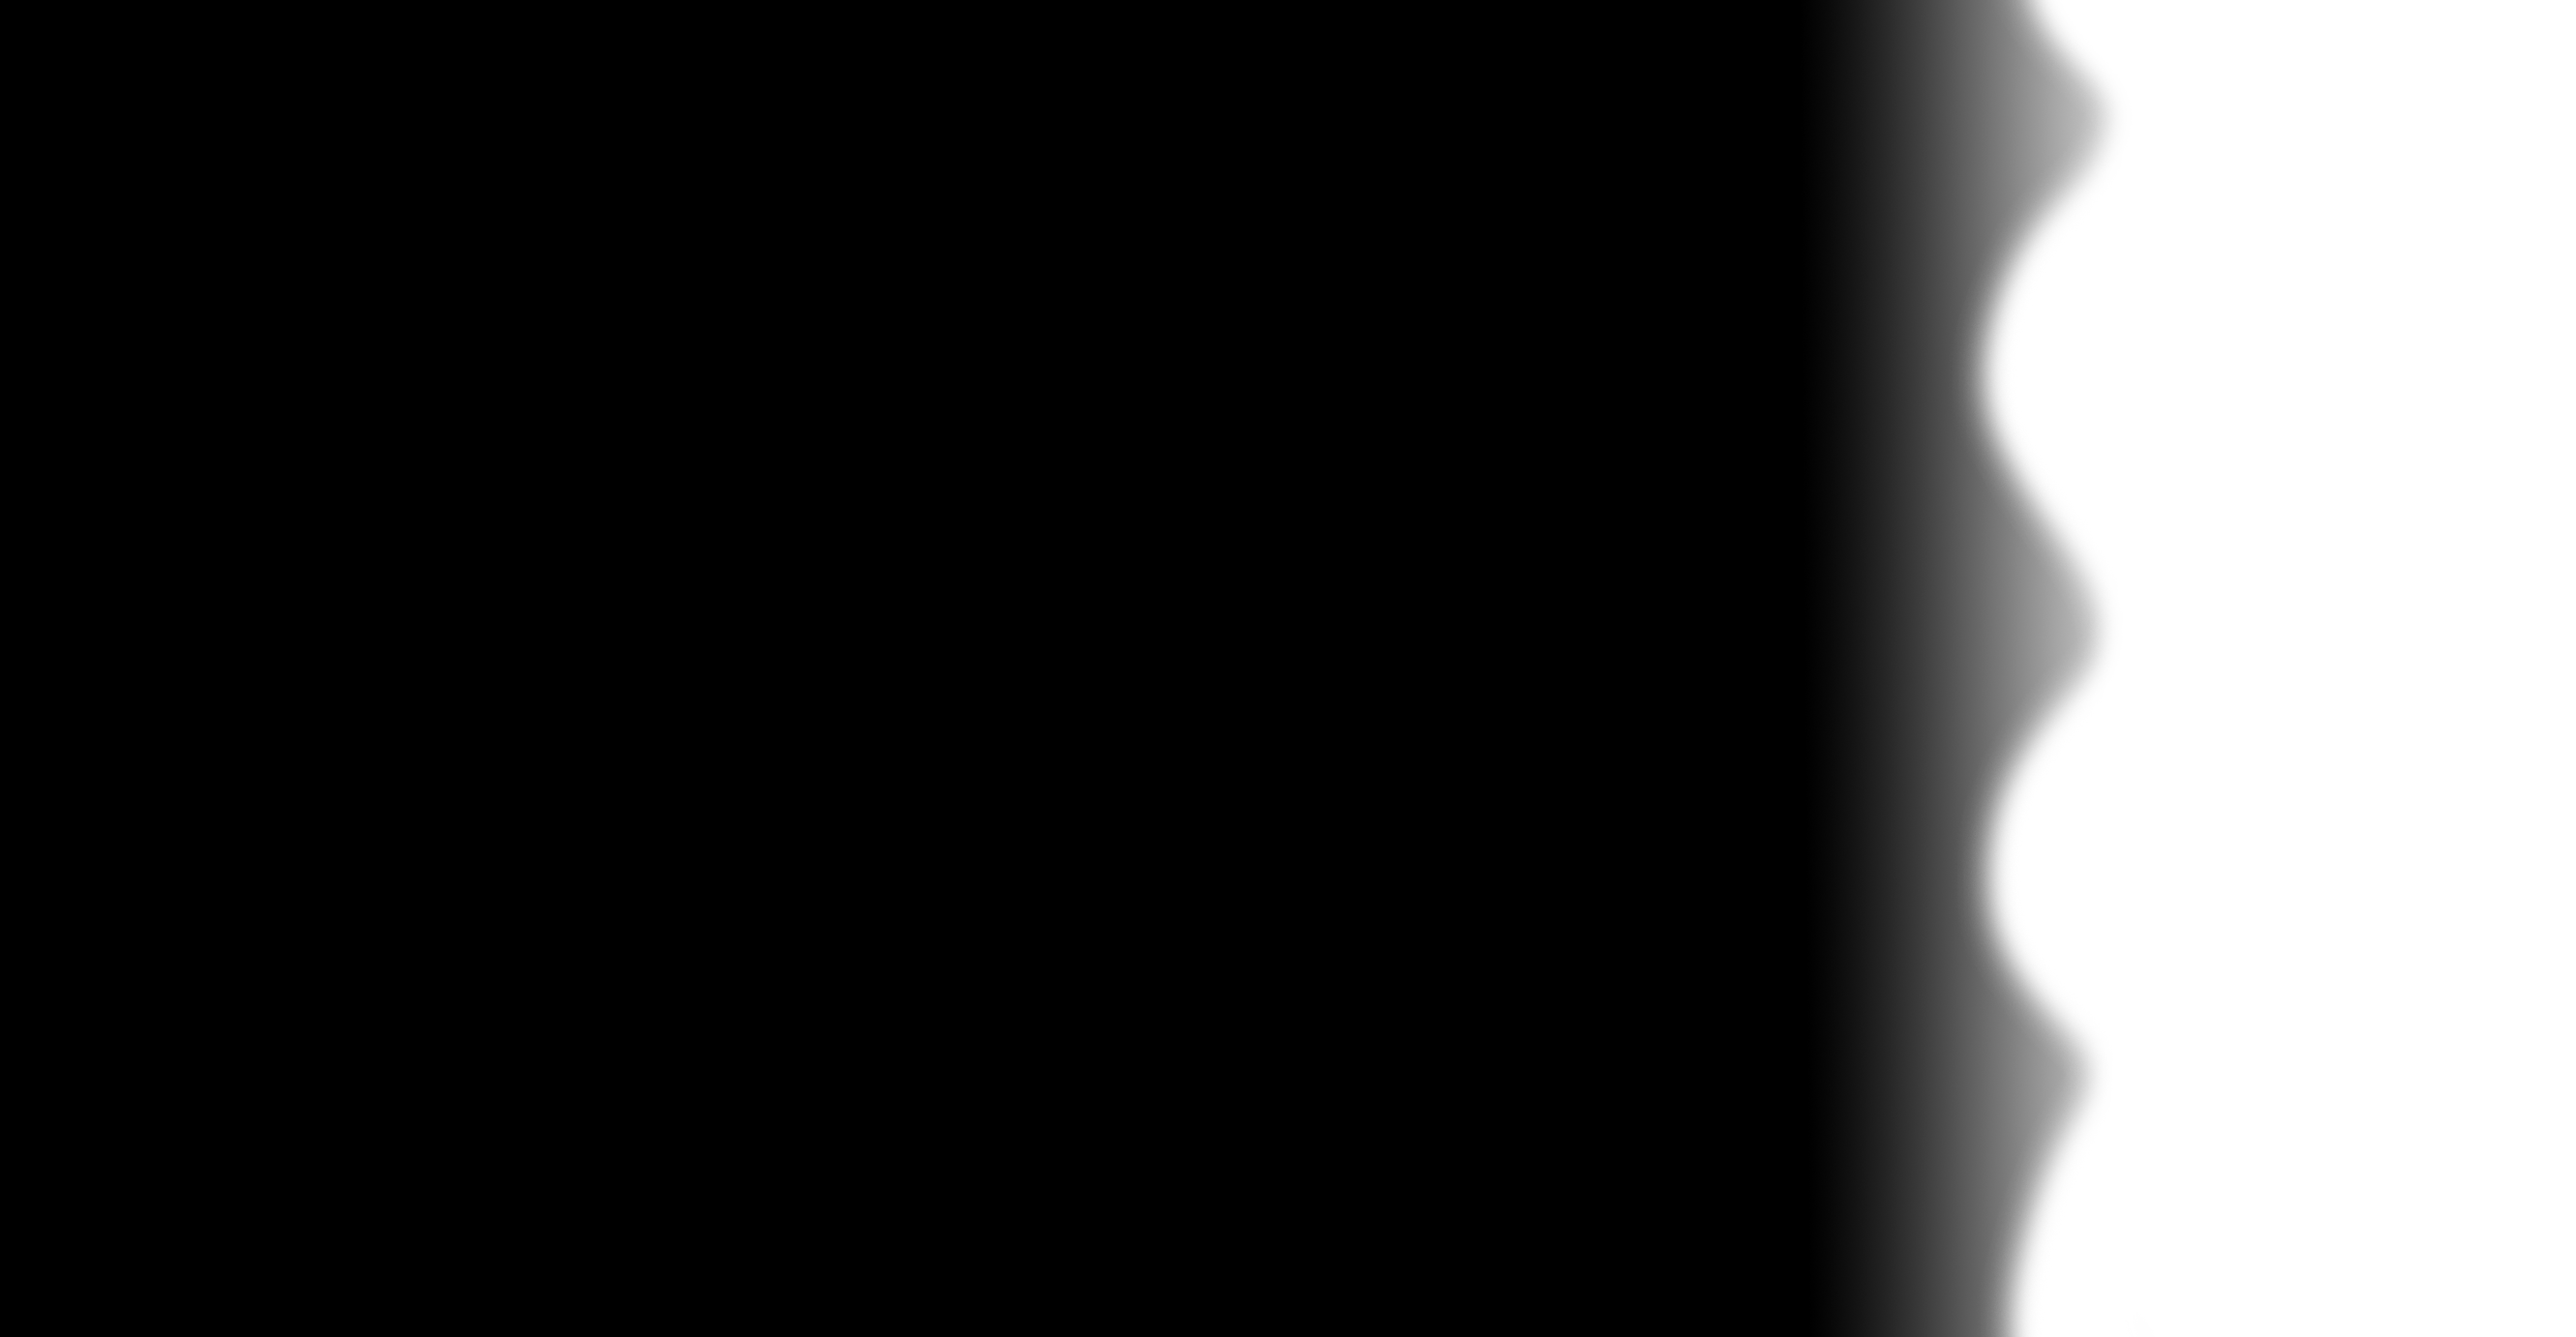
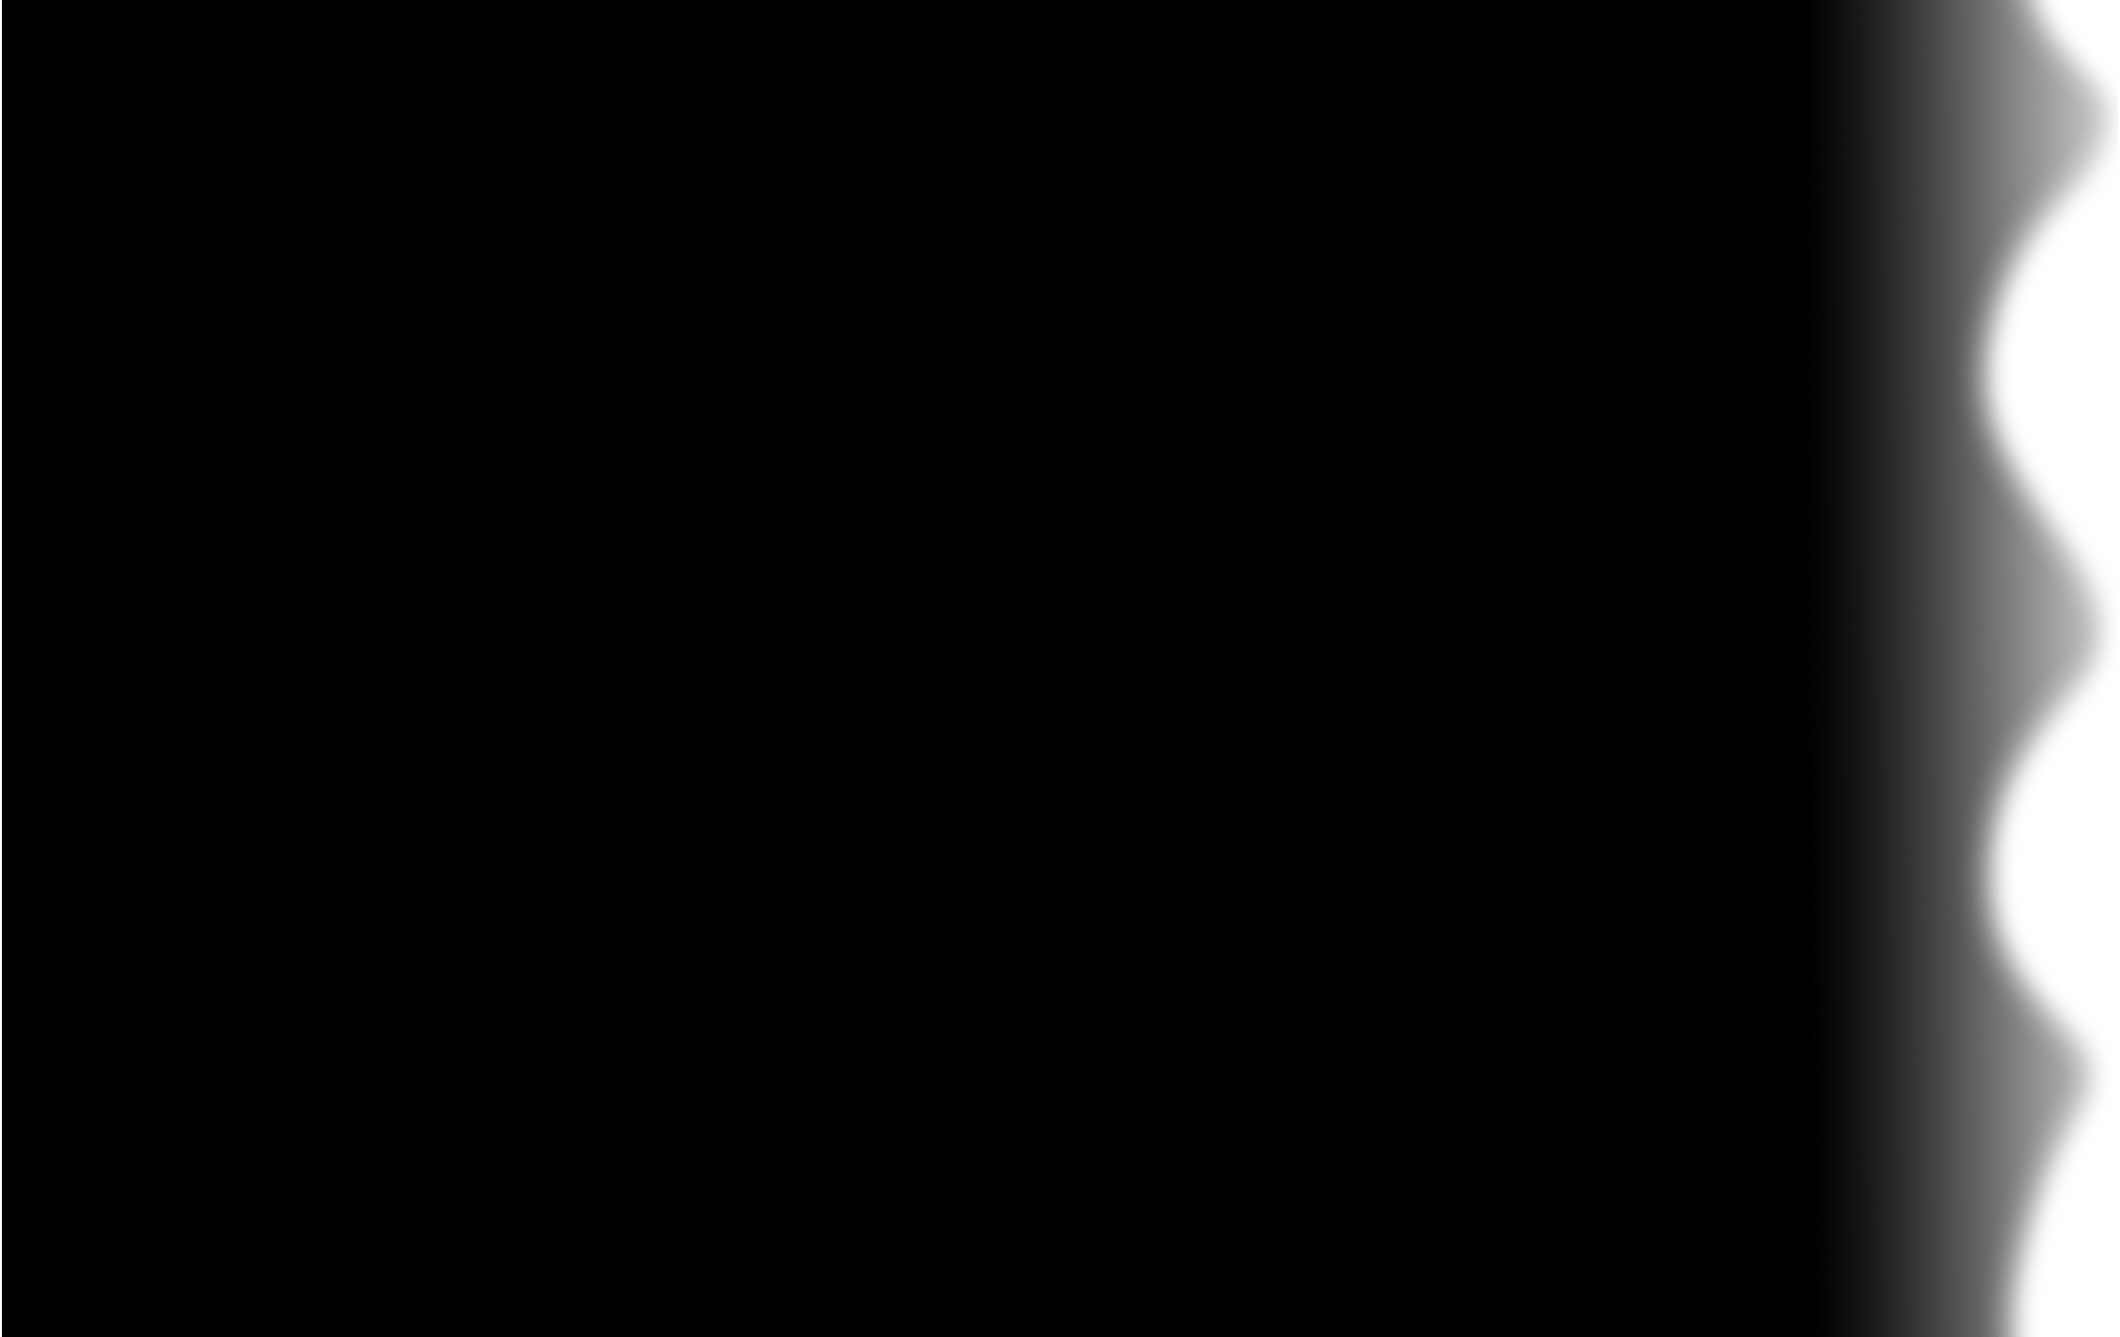
Edited darkness image files to fix hitbox, changed slide functionality to drop through platforms, increased difficulty at higher levels

Changed region(s): [[0.7142, 0.0, 0.9936, 1.0]]

diff --git a/main.py b/main.py
@@ -238,7 +238,8 @@ class Game:
             Key(self, WIDTH, HEIGHT / 2)
 
         # Check for platform collisions while falling
-        self.platform_collision()
+        if (self.player.sliding == False):
+            self.platform_collision()
 
         # If player reaches rightmost 1/2 of screen
         if self.player.rect.centerx >= WIDTH / 2:
@@ -303,8 +304,16 @@ class Game:
                 return
 
         # Need lvl_init platforms
-
-        while len(self.platforms) < 10:
+        if (self.level_state == LevelState.LEVEL_ONE):
+            plat_num = 11
+            lvlmod = 1
+        elif (self.level_state == LevelState.LEVEL_TWO):
+            plat_num = 8
+            lvlmod = 1.5
+        elif (self.level_state == LevelState.LEVEL_THREE):
+            plat_num = 6
+            lvlmod = 2
+        while len(self.platforms) < plat_num:
             #width = random.randrange(50, 800)
             # More platformer like:
             #Platform(self, random.randrange(WIDTH, WIDTH + width), random.randrange(200, HEIGHT - 100))
@@ -316,7 +325,7 @@ class Game:
             height = random.randrange(200, HEIGHT - 50)
             flag = True
             for plat in self.platforms:
-                if (width <= plat.rect.x + 200 and width >= plat.rect.x - 200):
+                if (width <= plat.rect.x + 200*lvlmod and width >= plat.rect.x - 200*lvlmod):
                     if (height >= plat.rect.y + 100 or height <= plat.rect.y - 100):
                         continue #or (height <= plat.rect.y + 50 and height >= plat.rect.y - 50):
                     flag = False
@@ -744,7 +753,7 @@ class Game:
                 for hit in hits:
                     if hit.rect.bottom > lower_platform.rect.bottom:
                         lower_platform = hit
-                if self.player.pos.x < lower_platform.rect.right + 100 and self.player.pos.x > lower_platform.rect.left - 100:
+                if self.player.pos.x < lower_platform.rect.right + 50 and self.player.pos.x > lower_platform.rect.left - 50:
                     # Only move to platform top if feet higher than platform top
                     if self.player.pos.y <= lower_platform.rect.bottom:
                         self.player.pos.y = lower_platform.rect.top + 1
